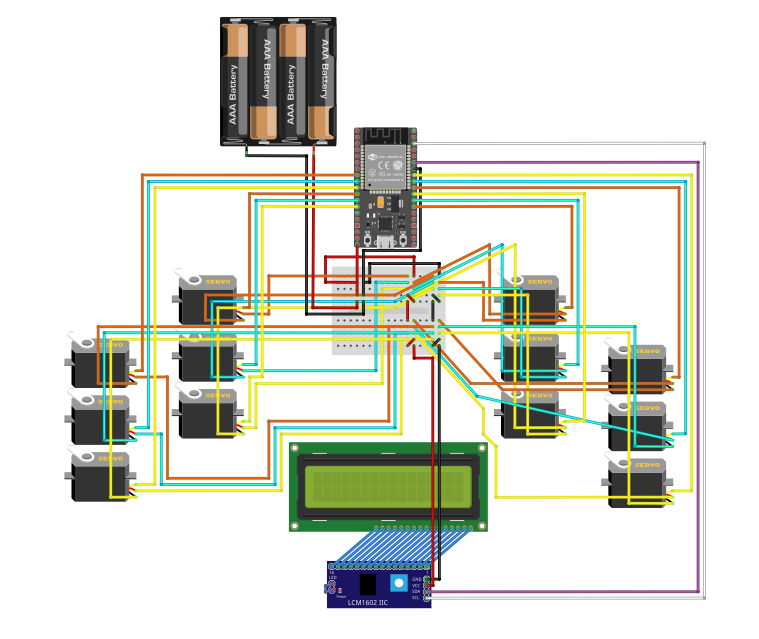
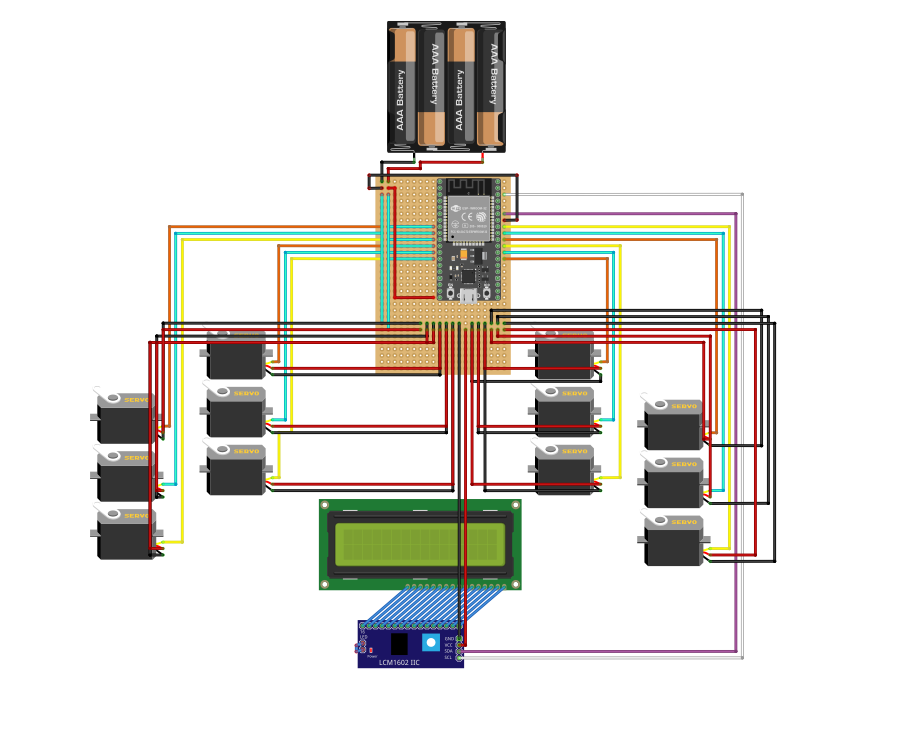
changed diagram

diff --git a/components/pwmcontrol/iot_servo.c b/components/pwmcontrol/iot_servo.c
@@ -1,0 +1,122 @@
+/*
+ * SPDX-FileCopyrightText: 2022-2023 Espressif Systems (Shanghai) CO LTD
+ *
+ * SPDX-License-Identifier: Apache-2.0
+ */
+
+#include "esp_log.h"
+#include "esp_err.h"
+#include "driver/ledc.h"
+#include "iot_servo.h"
+
+static const char *TAG = "servo";
+
+#define SERVO_CHECK(a, str, ret_val) \
+    if (!(a)) { \
+        ESP_LOGE(TAG,"%s(%d): %s", __FUNCTION__, __LINE__, str); \
+        return (ret_val); \
+    }
+
+#define SERVO_LEDC_INIT_BITS LEDC_TIMER_10_BIT
+#define SERVO_FREQ_MIN       50
+#define SERVO_FREQ_MAX       400
+
+static uint32_t g_full_duty = 0;
+static servo_config_t g_cfg[LEDC_SPEED_MODE_MAX] = {0};
+
+static uint32_t calculate_duty(ledc_mode_t speed_mode, float angle)
+{
+    float angle_us = angle / g_cfg[speed_mode].max_angle * (g_cfg[speed_mode].max_width_us - g_cfg[speed_mode].min_width_us) + g_cfg[speed_mode].min_width_us;
+    ESP_LOGD(TAG, "angle us: %f", angle_us);
+    uint32_t duty = (uint32_t)((float)g_full_duty * (angle_us) * g_cfg[speed_mode].freq / (1000000.0f));
+    return duty;
+}
+
+static float calculate_angle(ledc_mode_t speed_mode, uint32_t duty)
+{
+    float angle_us = (float)duty * 1000000.0f / (float)g_full_duty / (float)g_cfg[speed_mode].freq;
+    angle_us -= g_cfg[speed_mode].min_width_us;
+    angle_us = angle_us < 0.0f ? 0.0f : angle_us;
+    float angle = angle_us * g_cfg[speed_mode].max_angle / (g_cfg[speed_mode].max_width_us - g_cfg[speed_mode].min_width_us);
+    return angle;
+}
+
+esp_err_t iot_servo_init(ledc_mode_t speed_mode, const servo_config_t *config)
+{
+    esp_err_t ret;
+    SERVO_CHECK(NULL != config, "Pointer of config is invalid", ESP_ERR_INVALID_ARG);
+    SERVO_CHECK(config->channel_number > 0 && config->channel_number <= LEDC_CHANNEL_MAX, "Servo channel number out the range", ESP_ERR_INVALID_ARG);
+    SERVO_CHECK(config->freq <= SERVO_FREQ_MAX && config->freq >= SERVO_FREQ_MIN, "Servo pwm frequency out the range", ESP_ERR_INVALID_ARG);
+    uint64_t pin_mask = 0;
+    uint32_t ch_mask = 0;
+    for (size_t i = 0; i < config->channel_number; i++) {
+        uint64_t _pin_mask = 1ULL << config->channels.servo_pin[i];
+        uint32_t _ch_mask = 1UL << config->channels.ch[i];
+        SERVO_CHECK(!(pin_mask & _pin_mask), "servo gpio has a duplicate", ESP_ERR_INVALID_ARG);
+        SERVO_CHECK(!(ch_mask & _ch_mask), "servo channel has a duplicate", ESP_ERR_INVALID_ARG);
+        SERVO_CHECK(GPIO_IS_VALID_OUTPUT_GPIO(config->channels.servo_pin[i]), "servo gpio invalid", ESP_ERR_INVALID_ARG);
+        pin_mask |= _pin_mask;
+        ch_mask |= _ch_mask;
+    }
+
+    ledc_timer_config_t ledc_timer = {
+        .clk_cfg = LEDC_AUTO_CLK,
+        .duty_resolution = SERVO_LEDC_INIT_BITS,     // resolution of PWM duty
+        .freq_hz = config->freq,                     // frequency of PWM signal
+        .speed_mode = speed_mode,            // timer mode
+        .timer_num = config->timer_number            // timer index
+    };
+    ret = ledc_timer_config(&ledc_timer);
+    SERVO_CHECK(ESP_OK == ret, "ledc timer configuration failed", ESP_FAIL);
+    for (size_t i = 0; i < config->channel_number; i++) {
+        ledc_channel_config_t ledc_ch = {
+            .intr_type  = LEDC_INTR_DISABLE,
+            .channel    = config->channels.ch[i],
+            .duty       = calculate_duty(speed_mode, 0),
+            .gpio_num   = config->channels.servo_pin[i],
+            .speed_mode = speed_mode,
+            .timer_sel  = config->timer_number,
+            .hpoint     = 0
+        };
+        ret = ledc_channel_config(&ledc_ch);
+        SERVO_CHECK(ESP_OK == ret, "ledc channel configuration failed", ESP_FAIL);
+    }
+    g_full_duty = (1 << SERVO_LEDC_INIT_BITS) - 1;
+    g_cfg[speed_mode] = *config;
+
+    return ESP_OK;
+}
+
+esp_err_t iot_servo_deinit(ledc_mode_t speed_mode)
+{
+    SERVO_CHECK(speed_mode < LEDC_SPEED_MODE_MAX, "LEDC speed mode invalid", ESP_ERR_INVALID_ARG);
+    for (size_t i = 0; i < g_cfg[speed_mode].channel_number; i++) {
+        ledc_stop(speed_mode, g_cfg[speed_mode].channels.ch[i], 0);
+    }
+    ledc_timer_rst(speed_mode, g_cfg[speed_mode].timer_number);
+    g_full_duty = 0;
+    return ESP_OK;
+}
+
+esp_err_t iot_servo_write_angle(ledc_mode_t speed_mode, uint8_t channel, float angle)
+{
+    SERVO_CHECK(speed_mode < LEDC_SPEED_MODE_MAX, "LEDC speed mode invalid", ESP_ERR_INVALID_ARG);
+    SERVO_CHECK(channel < LEDC_CHANNEL_MAX, "LEDC channel number too large", ESP_ERR_INVALID_ARG);
+    SERVO_CHECK(angle >= 0.0f, "Angle can't to be negative", ESP_ERR_INVALID_ARG);
+    esp_err_t ret;
+    uint32_t duty = calculate_duty(speed_mode, angle);
+    ret = ledc_set_duty(speed_mode, (ledc_channel_t)channel, duty);
+    ret |= ledc_update_duty(speed_mode, (ledc_channel_t)channel);
+    SERVO_CHECK(ESP_OK == ret, "write servo angle failed", ESP_FAIL);
+    return ESP_OK;
+}
+
+esp_err_t iot_servo_read_angle(ledc_mode_t speed_mode, uint8_t channel, float *angle)
+{
+    SERVO_CHECK(speed_mode < LEDC_SPEED_MODE_MAX, "LEDC speed mode invalid", ESP_ERR_INVALID_ARG);
+    SERVO_CHECK(channel < LEDC_CHANNEL_MAX, "LEDC channel number too large", ESP_ERR_INVALID_ARG);
+    uint32_t duty = ledc_get_duty(speed_mode, channel);
+    float a = calculate_angle(speed_mode, duty);
+    *angle = a;
+    return ESP_OK;
+}

diff --git a/components/pwmcontrol/include/iot_servo.h b/components/pwmcontrol/include/iot_servo.h
@@ -1,0 +1,96 @@
+/*
+ * SPDX-FileCopyrightText: 2022-2023 Espressif Systems (Shanghai) CO LTD
+ *
+ * SPDX-License-Identifier: Apache-2.0
+ */
+
+#ifndef _IOT_SERVO_H_
+#define _IOT_SERVO_H_
+
+#include "esp_err.h"
+#include "driver/ledc.h"
+#include "driver/gpio.h"
+
+/**
+ * @brief Configuration of servo motor channel
+ *
+ */
+typedef struct {
+    gpio_num_t servo_pin[LEDC_CHANNEL_MAX];     /**< Pin number of pwm output */
+    ledc_channel_t ch[LEDC_CHANNEL_MAX];    /**< The ledc channel which used */
+} servo_channel_t;
+
+/**
+ * @brief Configuration of servo motor
+ *
+ */
+typedef struct {
+    uint16_t max_angle;        /**< Servo max angle */
+    uint16_t min_width_us;     /**< Pulse width corresponding to minimum angle, which is usually 500us */
+    uint16_t max_width_us;     /**< Pulse width corresponding to maximum angle, which is usually 2500us */
+    uint32_t freq;             /**< PWM frequency */
+    ledc_timer_t timer_number; /**< Timer number of ledc */
+    servo_channel_t channels;  /**< Channels to use */
+    uint8_t channel_number;    /**< Total channel number */
+} servo_config_t;
+
+#ifdef __cplusplus
+extern "C" {
+#endif
+
+/**
+ * @brief Initialize ledc to control the servo
+ *
+ * @param speed_mode Select the LEDC channel group with specified speed mode. Note that not all targets support high speed mode.
+ * @param config Pointer of servo configure struct
+ *
+ * @return
+ *     - ESP_OK Success
+ *     - ESP_ERR_INVALID_ARG Parameter error
+ *     - ESP_FAIL Configure ledc failed
+ */
+esp_err_t iot_servo_init(ledc_mode_t speed_mode, const servo_config_t *config);
+
+/**
+ * @brief Deinitialize ledc for servo
+ *
+ * @param speed_mode Select the LEDC channel group with specified speed mode.
+ *
+ * @return
+ *     - ESP_OK Success
+ */
+esp_err_t iot_servo_deinit(ledc_mode_t speed_mode);
+
+/**
+ * @brief Set the servo motor to a certain angle
+ *
+ * @note This API is not thread-safe
+ *
+ * @param speed_mode Select the LEDC channel group with specified speed mode.
+ * @param channel LEDC channel, select from ledc_channel_t
+ * @param angle The angle to go
+ *
+ * @return
+ *     - ESP_OK Success
+ *     - ESP_ERR_INVALID_ARG Parameter error
+ */
+esp_err_t iot_servo_write_angle(ledc_mode_t speed_mode, uint8_t channel, float angle);
+
+/**
+ * @brief Read current angle of one channel
+ *
+ * @param speed_mode Select the LEDC channel group with specified speed mode.
+ * @param channel LEDC channel, select from ledc_channel_t
+ * @param angle Current angle of the channel
+ *
+ * @return
+ *     - ESP_OK Success
+ *     - ESP_ERR_INVALID_ARG Parameter error
+ */
+esp_err_t iot_servo_read_angle(ledc_mode_t speed_mode, uint8_t channel, float *angle);
+
+#ifdef __cplusplus
+}
+#endif
+
+#endif /* _IOT_SERVO_H_ */

diff --git a/main/main.c b/main/main.c
@@ -3,9 +3,17 @@
 #include "freertos/FreeRTOS.h"
 #include "esp_log.h"
 #include "i2clib.h"
+#include "iot_servo.h"
 
-#define sleep(x) esp_cpu_cycle_count_t init_count = esp_cpu_get_cycle_count(); \
-                 while (esp_cpu_get_cycle_count() < init_count + 250000000*x) {}
+#define SERVO_PIN_1 18
+#define SERVO_PIN_2 19
+#define SPEED_MODE LEDC_LOW_SPEED_MODE
+
+void sleep_prog(int x)
+{
+    esp_cpu_cycle_count_t init_count = esp_cpu_get_cycle_count();
+    while (esp_cpu_get_cycle_count() < init_count + 250000000*x) {}
+}
 
 
 void app_main(void) {
@@ -30,7 +38,7 @@ void app_main(void) {
     LCD_setCursor(6,1);
     LCD_writeStr("d d");
 
-    sleep(2);
+    sleep_prog(2);
 
 
     // Example custom character: A smiley face
@@ -58,5 +66,31 @@ void app_main(void) {
 
     LCD_setCursor(15, 0);
     LCD_writeCustomChar(2);
+
+
+    servo_config_t servo_cfg = {
+        .max_angle = 180,
+        .min_width_us = 500,
+        .max_width_us = 2500,
+        .freq = 50,
+        .timer_number = LEDC_TIMER_0,
+        .channels = {
+            .servo_pin = {
+                SERVO_PIN_1,
+                SERVO_PIN_2,
+
+            },
+            .ch = {
+                LEDC_CHANNEL_0,
+                LEDC_CHANNEL_1,
+
+            },
+        },
+        .channel_number = 2,
+    };
+    iot_servo_init(SPEED_MODE, &servo_cfg);
+
+    iot_servo_write_angle(SPEED_MODE, 0, 90.0f);
+    iot_servo_write_angle(SPEED_MODE, 1, 90.0f);
 
 }
